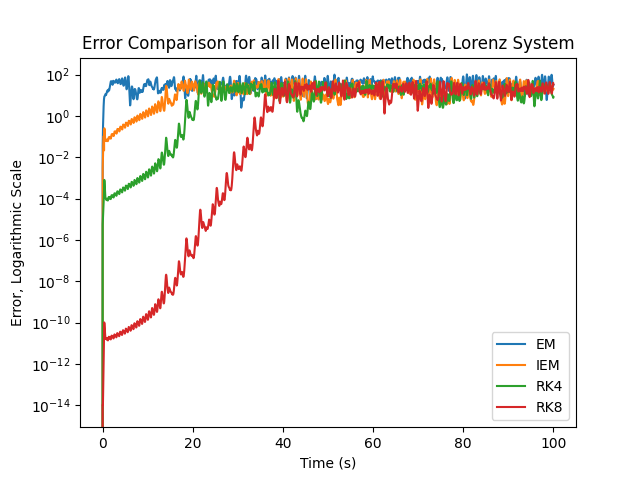
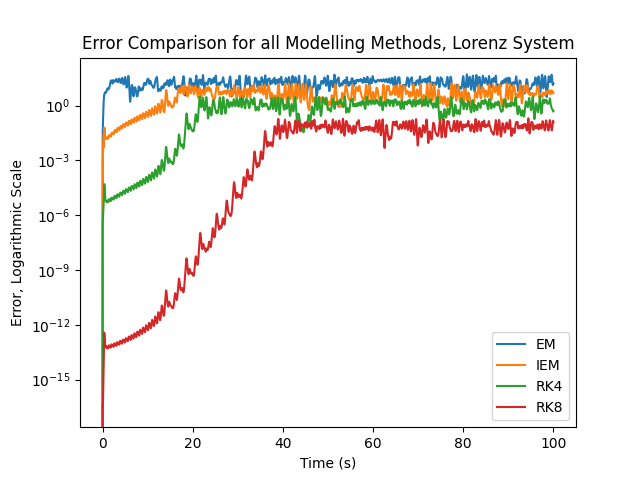
bug fixes and readme edits

diff --git a/Lorenz_Attractor_Analysis_Code.py b/Lorenz_Attractor_Analysis_Code.py
@@ -601,30 +601,34 @@ def poincare(x, y, z, system_name):
 
 # Richardson Extrapolation for error analysis
 
-def richardson_extrapolation(sol_h, init, plot, model_str, model, method, system, sub_method, dt, params, num_steps_to_stop, system_name):
+def richardson_extrapolation(sol_h, init, plot, model, method, system, sub_method, dt, params, num_steps_to_stop, system_name):
     
-    x2, y2, z2 = model(method, init, system, sub_method, dt/2, params, num_steps_to_stop*2)
+    x2, y2, z2 = model(method, init, system, sub_method, dt*2, params, num_steps_to_stop/2)
     sol_h_2 = np.array([x2, y2, z2])
 
-    local_errors = np.empty((num_steps_to_stop, 1))
+    local_errors = np.empty((num_steps_to_stop))
 
     if method == eulers_method:
+        model_str = "EM"
         order = 1
     elif method == improved_eulers_method:
+        model_str = "IEM"
         order = 2
     elif sub_method == runge_kutta_4:
+        model_str = "RK4"
         order = 4
     else:
+        model_str = "RK8"
         order = 8
 
-    for i in range(num_steps_to_stop):
-        diff_x = sol_h[0][i] - sol_h_2[0][2*i]
-        diff_y = sol_h[1][i] - sol_h_2[1][2*i]
-        diff_z = sol_h[2][i] - sol_h_2[2][2*i]
+    for i in range(num_steps_to_stop/2):
+        diff_x = sol_h[0][2*i] - sol_h_2[0][i]
+        diff_y = sol_h[1][2*i] - sol_h_2[1][i]
+        diff_z = sol_h[2][2*i] - sol_h_2[2][i]
 
         diff = (diff_x**2 + diff_y**2 + diff_z**2)**0.5 # pythagoreas
 
-        local_error = np.abs(diff / (0.5**order - 1))
+        local_error = np.abs(diff / (2**order - 1))
 
         local_errors[i] = local_error
 
@@ -652,15 +656,15 @@ def RE_error_comp(init, dt, params, num_steps_to_stop, system, log_scale, system
     str_methods = ["EM", "IEM", "RK4", "RK8"]
     sub_methods = [None, None, runge_kutta_4, runge_kutta_8]
 
-    time = np.linspace(0, num_steps_to_stop*dt, num_steps_to_stop+1)
+    time = np.linspace(0, num_steps_to_stop*dt, num_steps_to_stop)
     plt.figure()
 
     for i in range(len(methods)):
 
-        x, y, z = model(methods[i], init, lorenz, sub_methods[i], dt, params, num_steps_to_stop)
+        x, y, z = model(methods[i], init, system, sub_methods[i], dt, params, num_steps_to_stop)
         sol_h = np.array([x, y, z])
 
-        local_errors = richardson_extrapolation(sol_h, 0, None, model, methods[i], system, sub_methods[i], dt, params, num_steps_to_stop, system_name)
+        local_errors = richardson_extrapolation(sol_h, init, 0, model, methods[i], system, sub_methods[i], dt, params, num_steps_to_stop, system_name)
 
         plt.plot(time, local_errors, label=str_methods[i])
 
@@ -760,25 +764,21 @@ def run(init, dt, num_steps_to_stop, params, runtime, system, EM, improved_EM, R
         x, y, z = model(eulers_method, init, system, None, dt, params, num_steps_to_stop)
         method = eulers_method
         sub_method = None
-        model_str = "Eulers Method"
 
     if improved_EM:
         x, y, z = model(improved_eulers_method, init, system, None, dt, params, num_steps_to_stop)
         method = improved_eulers_method
         sub_method = None
-        model_str = "IEM"
 
     if RK4:
         x, y, z = model(runge_kutta, init, system, runge_kutta_4, dt, params, num_steps_to_stop)
         method = runge_kutta
         sub_method = runge_kutta_4
-        model_str = "RK4"
 
     if RK8:
         x, y, z = model(runge_kutta, init, system, runge_kutta_8, dt, params, num_steps_to_stop)
         method = runge_kutta
         sub_method = runge_kutta_8
-        model_str = "RK8"
 
     if model_henon:
         henon(init, params, num_steps_to_stop)
@@ -790,7 +790,7 @@ def run(init, dt, num_steps_to_stop, params, runtime, system, EM, improved_EM, R
     # error analysis
     if modelling_error:
         sol_h = np.array([x, y, z])
-        richardson_extrapolation(sol_h, init, 1, model_str, model, method, system, sub_method, dt, params, num_steps_to_stop, system_name)
+        richardson_extrapolation(sol_h, init, 1, model, method, system, sub_method, dt, params, num_steps_to_stop, system_name)
 
     if error_comparison:
         RE_error_comp(init, dt, params, num_steps_to_stop, system, log_scale, system_name)

diff --git a/run.py b/run.py
@@ -18,7 +18,7 @@ init_henon = np.array([0, 0])
 init_m_chua = np.array([0, 0, 0])
 init_duffing = np.array([0, 0, 0])
 
-init = init_custom
+init = init_lorenz
 
 # System Parameters ###########################################################################################################
 params_custom = [] # choose your own parameters
@@ -50,7 +50,7 @@ system = lrnz.lorenz
 # Modelling methods:
 EM = 0
 improved_EM = 0
-RK4 = 1
+RK4 = 0
 RK8 = 0
 model_henon = 0
 
@@ -86,12 +86,12 @@ d0 = 1e-8 # Orbit Separation and Average Lyapunov
 discard = 100 # Orbit Separation, Gram-Schmidt and Average Lyapunov
 
 # Poincare Map
-Poincare = 1
+Poincare = 0
 
 # Modelling Error
 modelling_error = 0
-error_comparison = 0
-log_scale = 0
+error_comparison = 1
+log_scale = 1
 
 lrnz.run(init, dt, num_steps_to_stop, params, runtime, system, EM, improved_EM, RK4, RK8, model_henon, plot_all, plot, plot_xy, 
         plot_xz, plot_yz, sensitive_dependence, disturbance, orbit_sep, method, sub_method, d0, plot_running, GS, average_lyapunov, 

diff --git a/README.md b/README.md
@@ -2,7 +2,7 @@
 
 ## Basic Overview
 
-This code provides some analysis and modelling tools for various systems of ordinary differential equations. It currently includes implementations for the Lorenz, Rabinovich-Fabrikant, Chen, Hénon, Modified Chua and Duffing systems. Basic knowledge of Python is recommended for use of this code. In order to run the code, the following libraries need to be installed: ```numpy```, ```matplotlib```, and ```time```.
+This code provides some analysis and modelling tools for various systems of ordinary differential equations. It currently includes implementations for the Lorenz, Rabinovich-Fabrikant, Chen, Hénon, Modified Chua and Duffing systems. Basic knowledge of Python is recommended for use of this code. In order to run the code, the following libraries need to be installed: ```numpy```, ```matplotlib```, and ```time```. This code supports Python versions 3.12 - 3.14.
 
 The code has the following implementations:
 - Modelling in 3-dimensional space (where applicable), as well as their projections on the xy, xz and yz planes. The following modelling methods are implemented:
